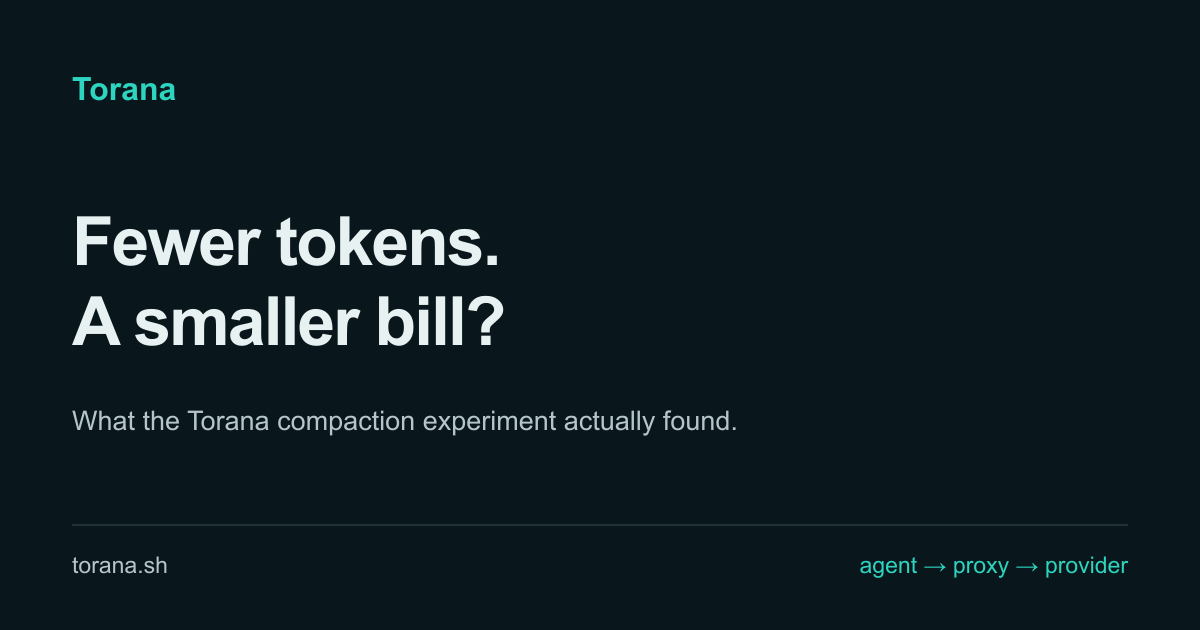
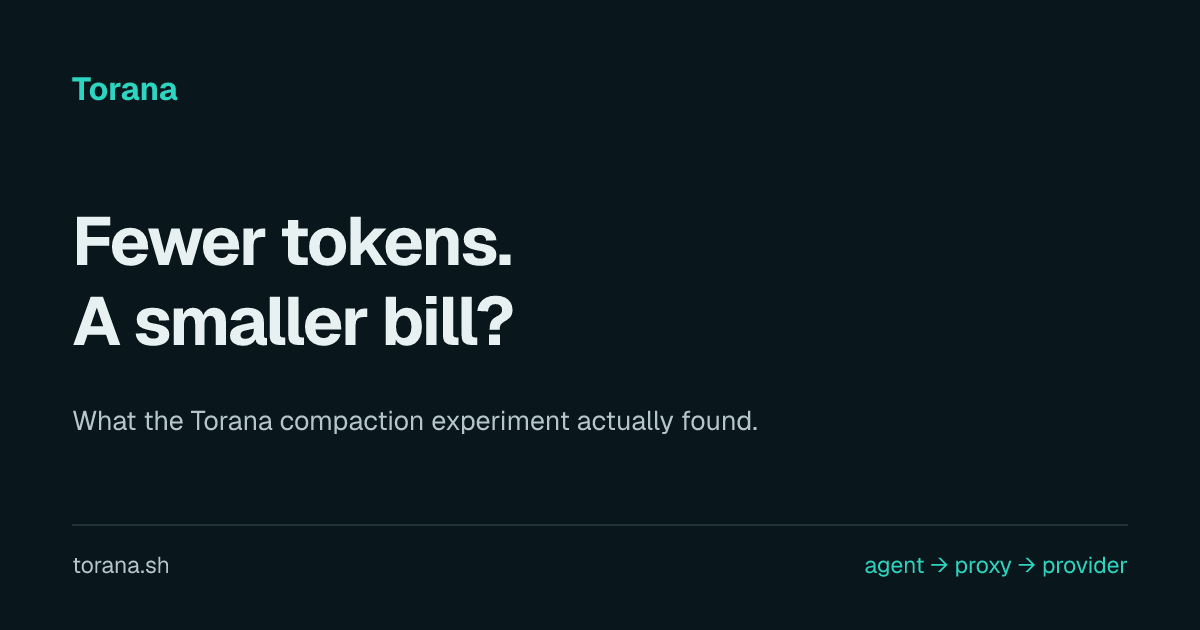
content: keep the launch site focused on Torana (#29)
* content: keep the launch site focused on Torana

* fix: verify social card exports and retain the experiment voice

diff --git a/README.md b/README.md
@@ -35,11 +35,34 @@ Social cards live in `public/social/`: editable SVG sources and matching 1200×6
 PNG exports. Keep each pair in sync; pages link to the PNG for social previews.
 The origin and compaction articles have their own cards.
 
+After editing a card, run `npm run social:build` and commit both the SVG and PNG.
+`npm run social:check` freshly renders every SVG and byte-compares the committed
+PNG. It fails for stale, missing, corrupted or orphaned exports without repairing
+them. It runs inside `npm run build`, so ordinary CI cannot ship a stale preview.
+
+Rendering uses the pinned development-only `@resvg/resvg-wasm` dependency and
+publicly hosted Geist Regular/Bold files at an immutable upstream revision, with
+SHA-256 checks. This avoids platform-specific Arial fallbacks and native renderer
+differences. The first run needs HTTPS access to raw.githubusercontent.com; fonts
+are cached by digest in the system temporary directory at
+`torana-site-social-fonts/`, outside the repository and build output. Cache hits
+are verified too. A missing network/font or integrity failure is an error, not a
+reason to skip the check or substitute another font. The fonts are licensed under
+the [SIL Open Font License](https://github.com/vercel/geist-font/blob/a6d260e6cbc07eafdfad438f33601fe3c38b1e6f/OFL.txt).
+No font files or renderer code are shipped to the website; its existing hosted
+fonts and browser fallbacks are unchanged. Still visually review card layout
+when changing copy: matching bytes prove freshness, not good typography.
+
 Before announcing the release, replace development-source installation with the
 verified tag instructions in Edge and `src/data/install.ts` together, then update
 the support matrix with the actual manual-test results. The owned-content check
 currently enforces pre-release language and will need to evolve with that change.
-Review the first-person origin article with Aniket and add the real release demo;
+Keep the site and launch articles focused on the project: no personal biography,
+named-author promotion, or personal-profile footer. The side-project journey,
+architectural scope creep, and technical lessons can keep their informal voice.
+First person is welcome when owning an experiment, measurement, or engineering
+decision; it does not need a biography or promotional byline.
+Review the origin article and add the real release demo;
 no recording or unverified release number is substituted here.
 
 ## Publish the website now; announce the product later
